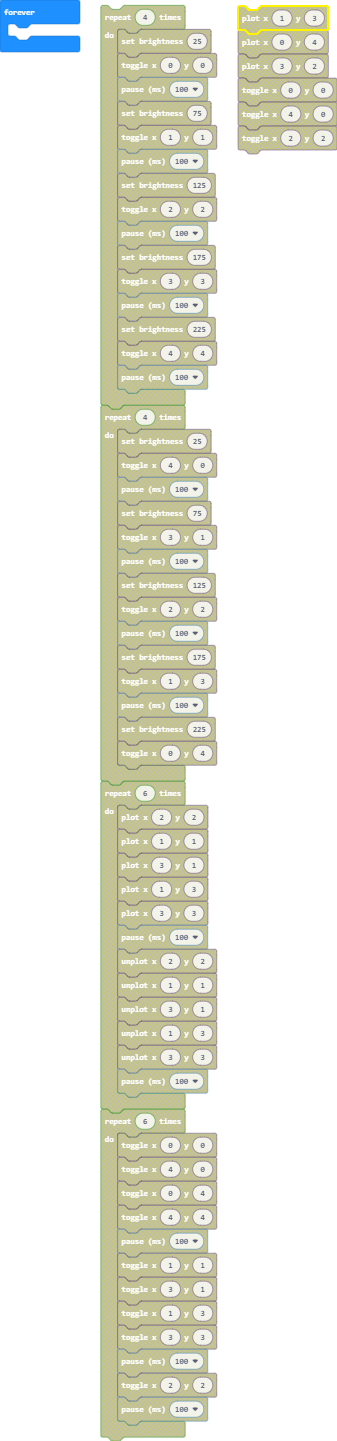
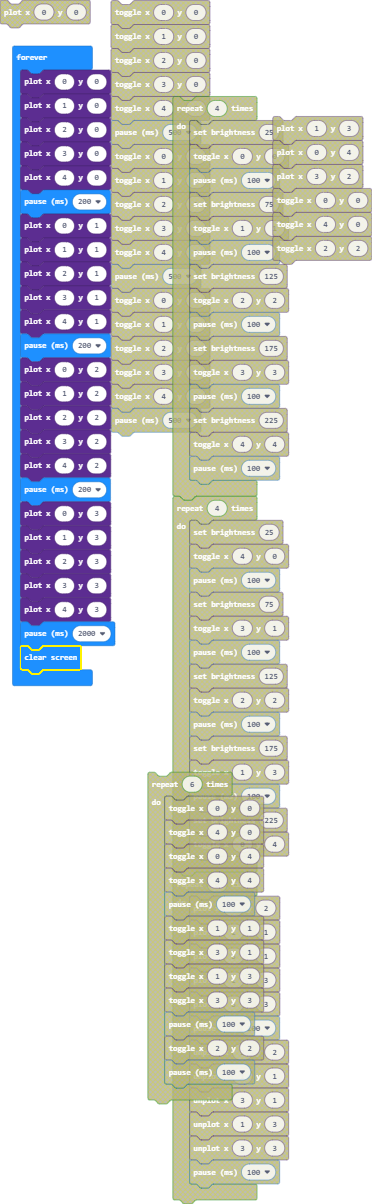
Update main.blocks, main.ts

diff --git a/main.ts b/main.ts
@@ -1,3 +1,27 @@
 basic.forever(function () {
-	
+    led.plot(0, 0)
+    led.plot(1, 0)
+    led.plot(2, 0)
+    led.plot(3, 0)
+    led.plot(4, 0)
+    basic.pause(200)
+    led.plot(0, 1)
+    led.plot(1, 1)
+    led.plot(2, 1)
+    led.plot(3, 1)
+    led.plot(4, 1)
+    basic.pause(200)
+    led.plot(0, 2)
+    led.plot(1, 2)
+    led.plot(2, 2)
+    led.plot(3, 2)
+    led.plot(4, 2)
+    basic.pause(200)
+    led.plot(0, 3)
+    led.plot(1, 3)
+    led.plot(2, 3)
+    led.plot(3, 3)
+    led.plot(4, 3)
+    basic.pause(2000)
+    basic.clearScreen()
 })
